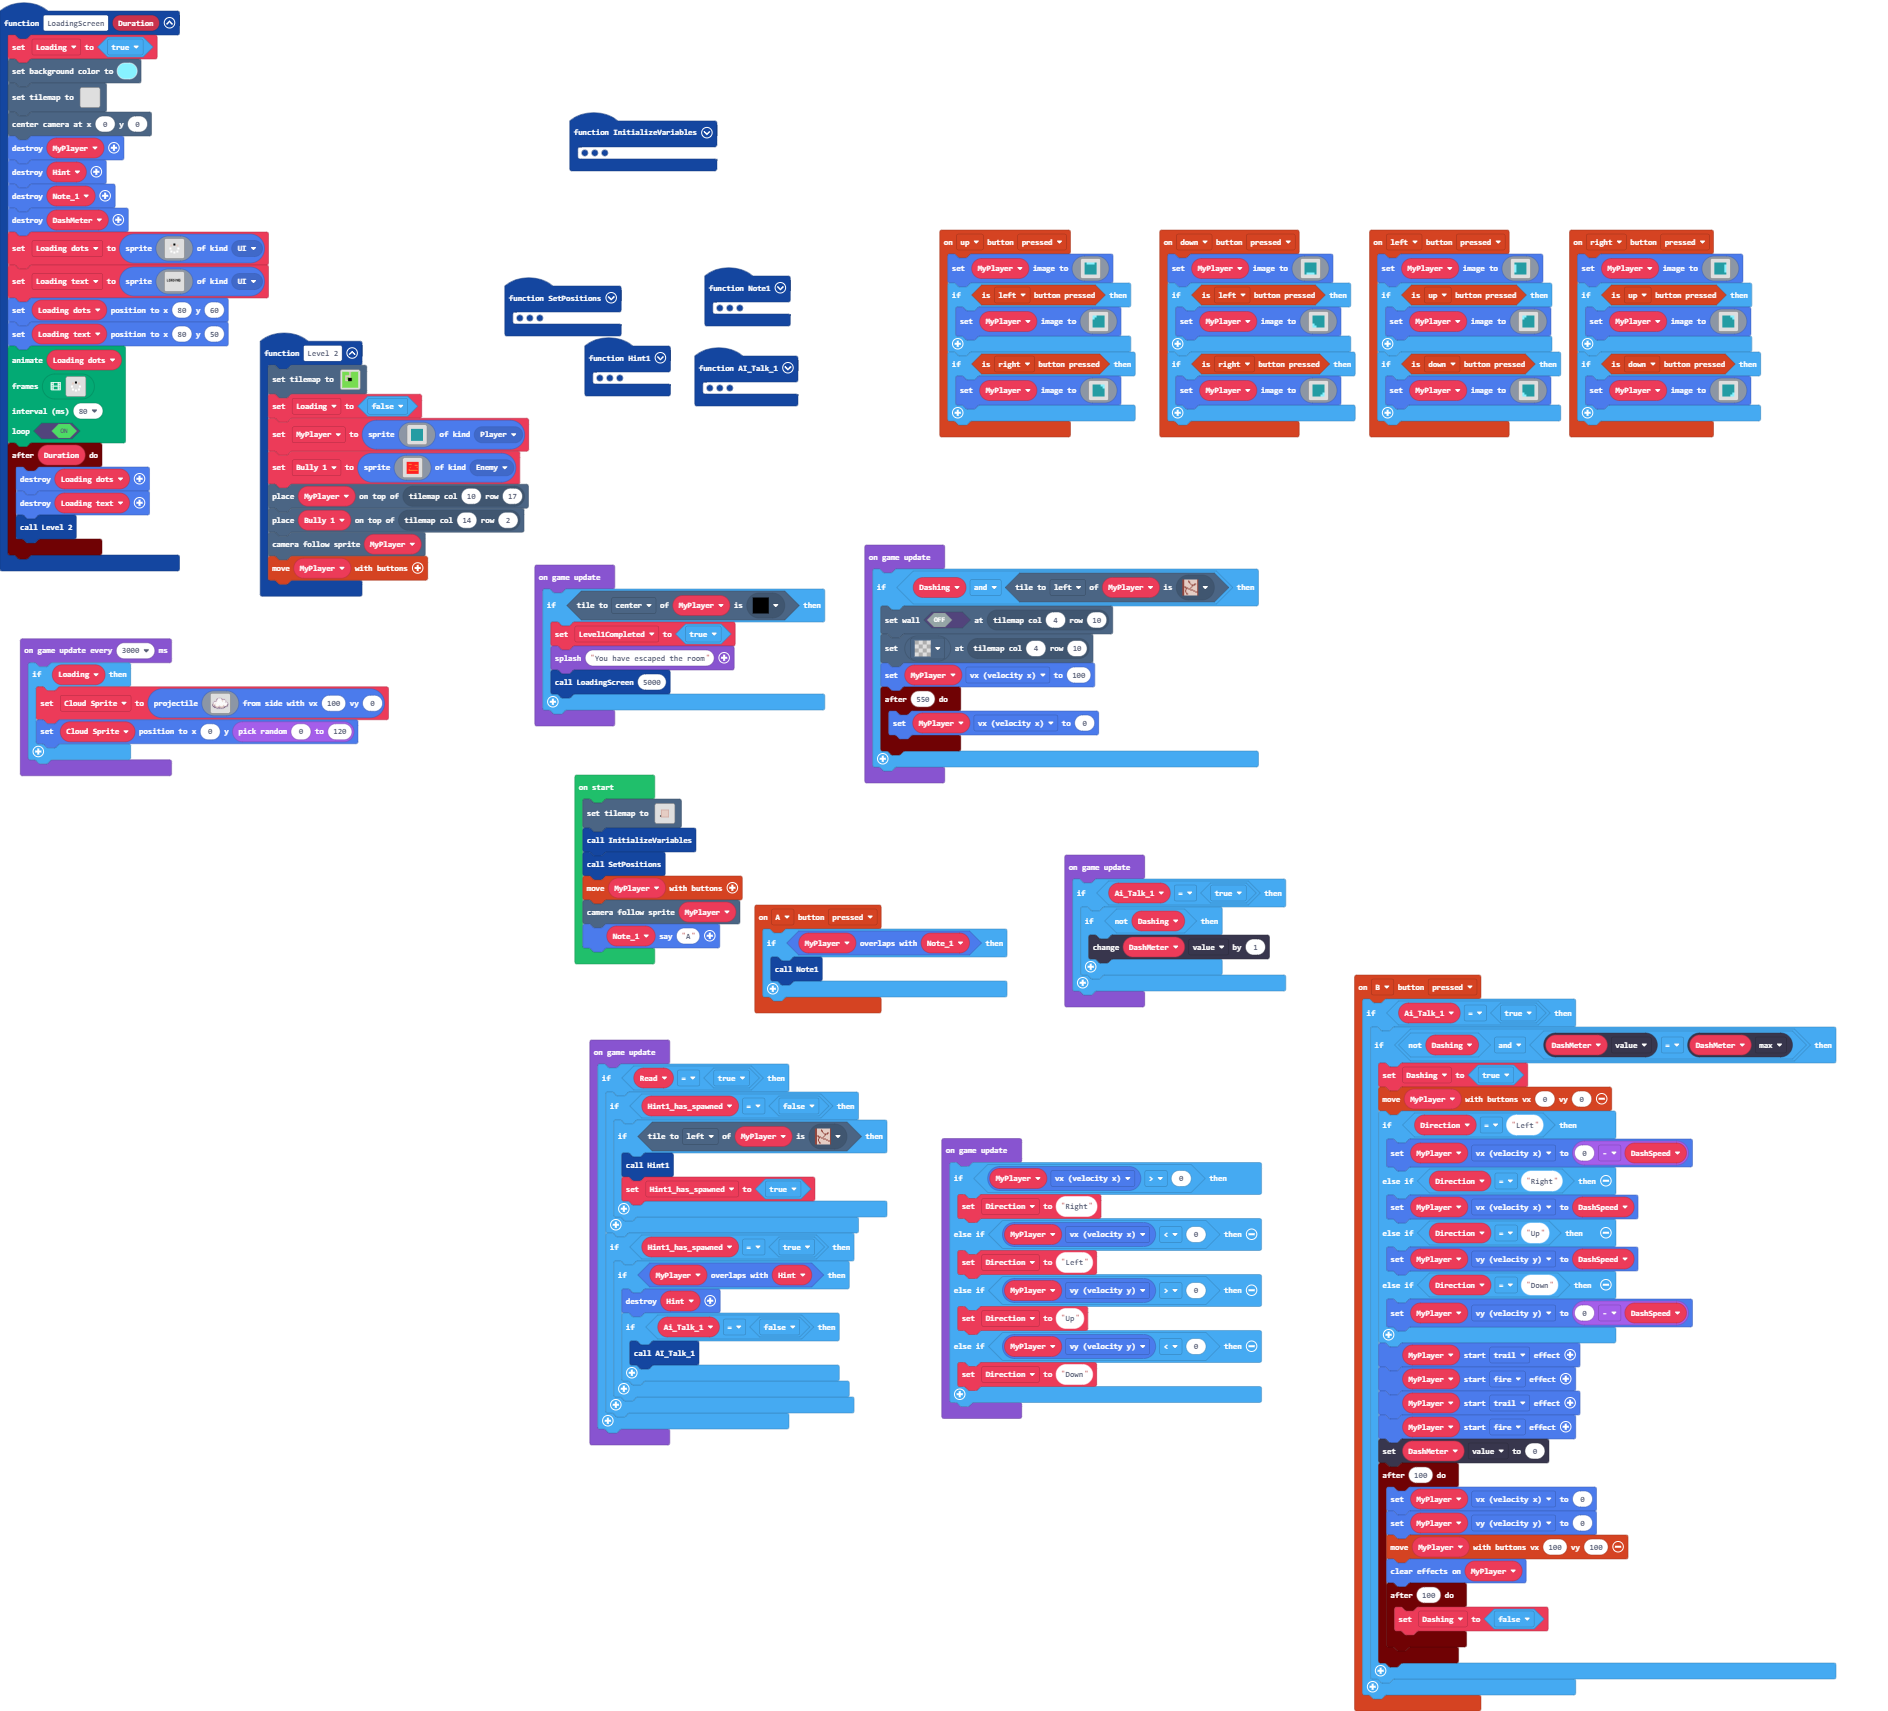
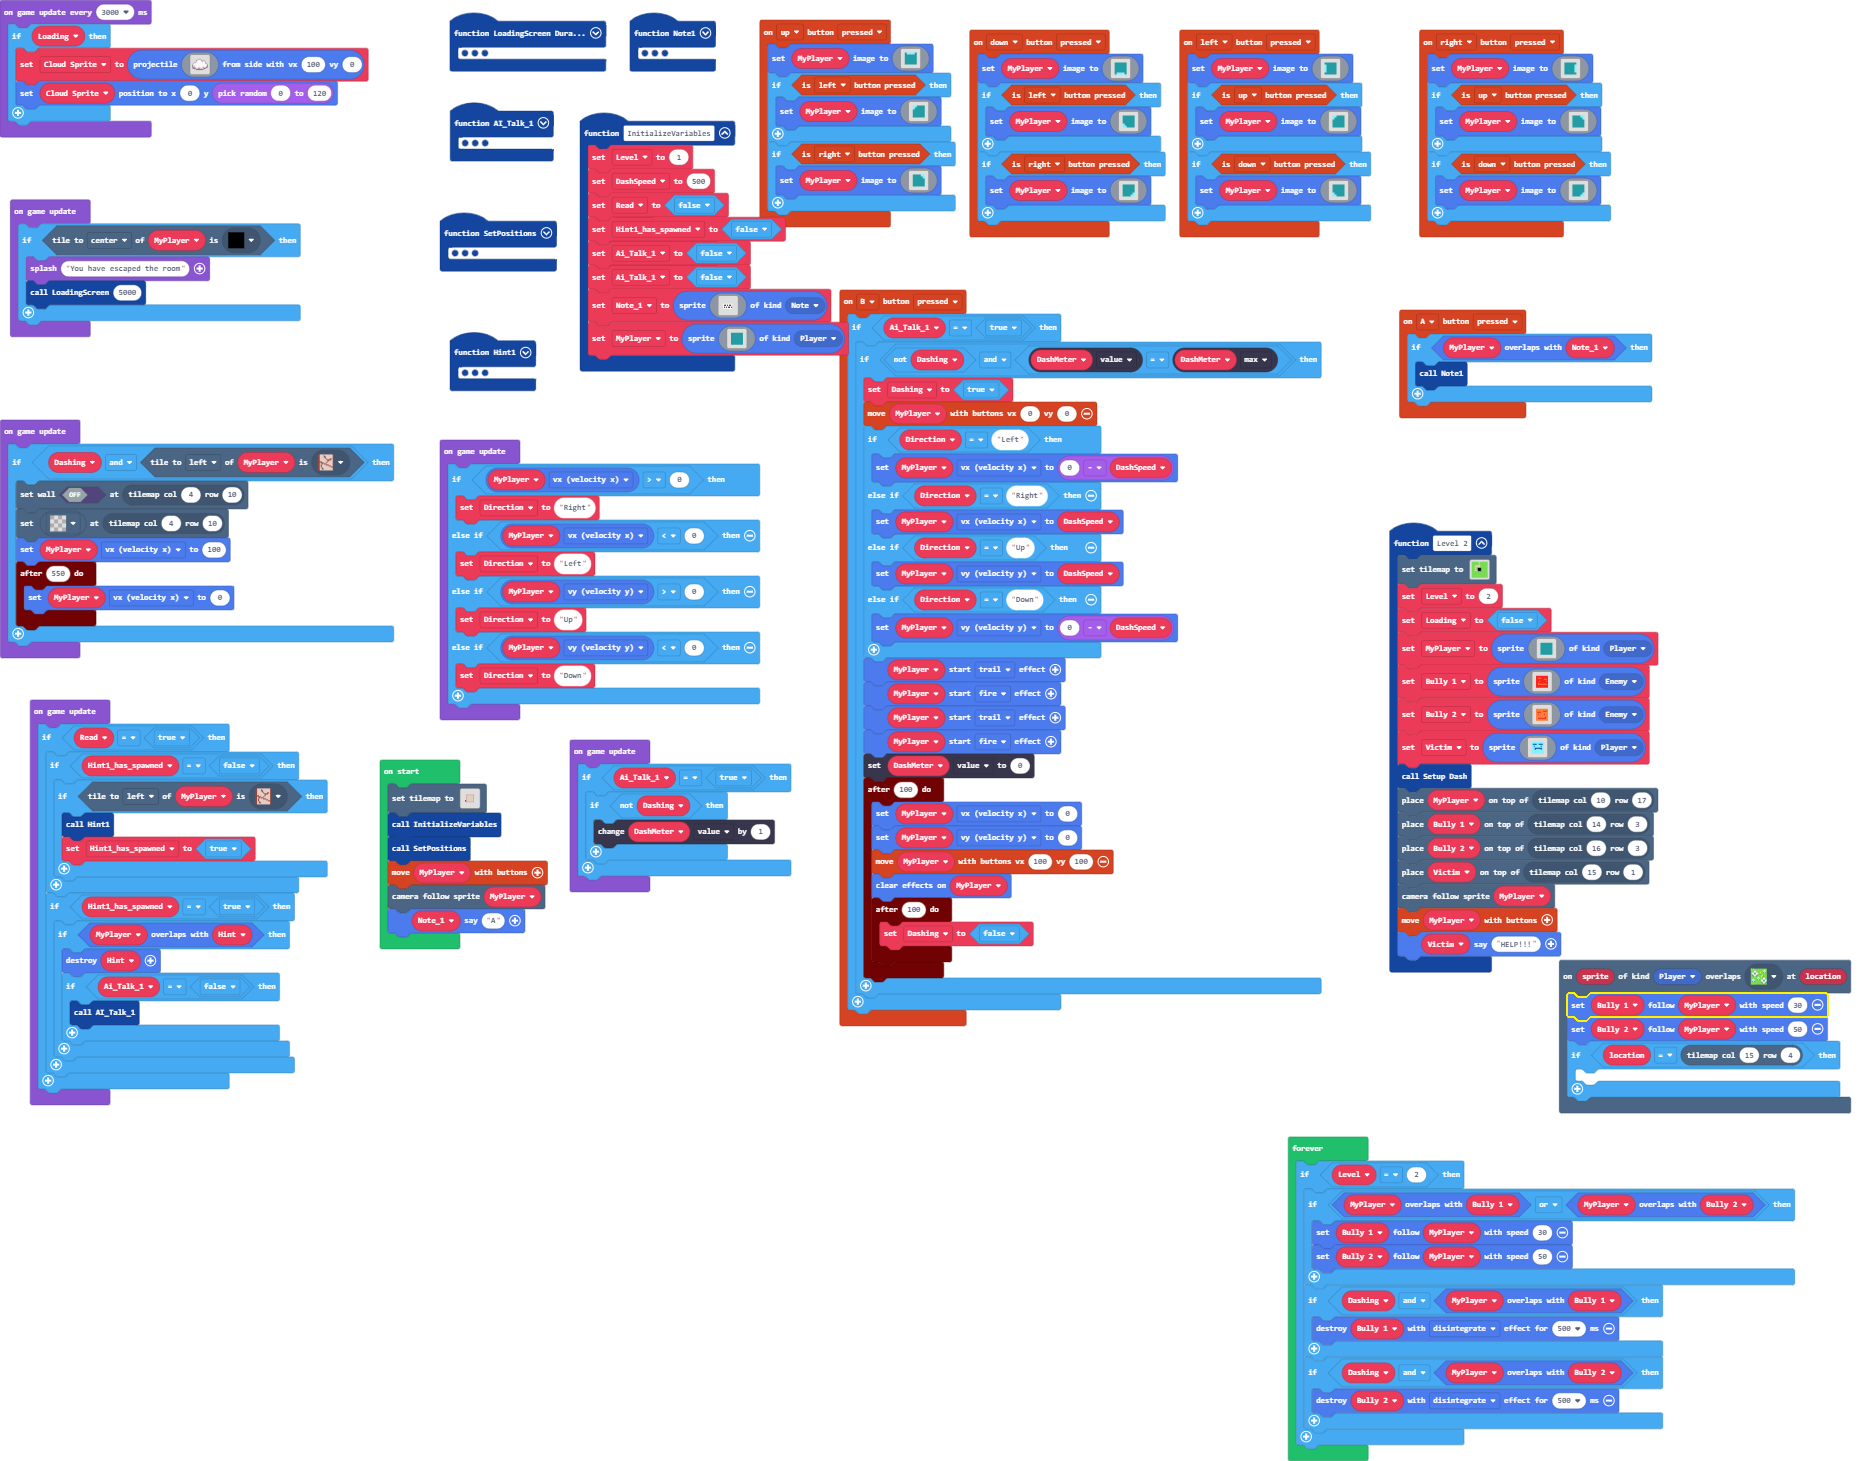
Update main.blocks, main.ts, tilemap.g.jres, tilemap.g.ts

diff --git a/main.ts b/main.ts
@@ -3,6 +3,15 @@ namespace SpriteKind {
     export const Note = SpriteKind.create()
     export const UI = SpriteKind.create()
 }
+function Setup_Dash () {
+    DashMeter = statusbars.create(55, 10, StatusBarKind.Energy)
+    DashMeter.setBarBorder(2, 1)
+    DashMeter.value = 50
+    DashMeter.max = 50
+    DashMeter.setStatusBarFlag(StatusBarFlag.SmoothTransition, true)
+    DashMeter.bottom = 118
+    DashMeter.left = 2
+}
 controller.up.onEvent(ControllerButtonEvent.Pressed, function () {
     MyPlayer.setImage(assets.image`Player_Up`)
     if (controller.left.isPressed()) {
@@ -77,24 +86,59 @@ function AI_Talk_1 () {
     game.showLongText("You will get boosted in the direction you are facing.", DialogLayout.Bottom)
     game.showLongText("But you have to recharge your dash before you can use it again.", DialogLayout.Bottom)
     game.showLongText("Good luck!!!", DialogLayout.Bottom)
-    DashMeter = statusbars.create(55, 10, StatusBarKind.Energy)
-    DashMeter.setBarBorder(2, 1)
-    DashMeter.value = 50
-    DashMeter.max = 50
-    DashMeter.setStatusBarFlag(StatusBarFlag.SmoothTransition, true)
-    DashMeter.bottom = 118
-    DashMeter.left = 2
+    Setup_Dash()
     Ai_Talk_1 = true
 }
 function Level_2 () {
     tiles.setTilemap(tilemap`level 2`)
+    Level = 2
     Loading = false
     MyPlayer = sprites.create(assets.image`Player`, SpriteKind.Player)
     Bully_1 = sprites.create(assets.image`Meanies`, SpriteKind.Enemy)
+    Bully_2 = sprites.create(img`
+        . . . . . . . . . . . . . . . . 
+        . . . . . . . . . . . . . . . . 
+        . . 4 4 4 4 4 4 4 4 4 4 4 4 . . 
+        . . 4 4 4 4 4 4 4 4 4 4 4 4 . . 
+        . . 4 4 4 4 4 4 4 2 2 2 2 4 . . 
+        . . 4 2 2 2 2 4 4 4 4 4 4 4 . . 
+        . . 4 4 4 4 4 4 4 4 4 4 4 4 . . 
+        . . 4 4 2 4 4 4 4 4 2 4 4 4 . . 
+        . . 4 4 4 4 4 4 4 4 4 4 4 4 . . 
+        . . 4 4 4 4 4 4 4 4 4 4 4 4 . . 
+        . . 4 4 4 4 4 4 4 4 4 2 4 4 . . 
+        . . 4 4 2 2 2 2 2 2 2 2 4 4 . . 
+        . . 4 4 4 4 4 4 4 4 4 4 4 4 . . 
+        . . 4 4 4 4 4 4 4 4 4 4 4 4 . . 
+        . . . . . . . . . . . . . . . . 
+        . . . . . . . . . . . . . . . . 
+        `, SpriteKind.Enemy)
+    Victim = sprites.create(img`
+        . . . . . . . . . . . . . . . . 
+        . . . . . . . . . . . . . . . . 
+        . . 9 9 9 9 9 9 9 9 9 9 9 9 . . 
+        . . 9 9 9 9 9 9 9 9 9 9 9 9 . . 
+        . . 9 8 8 8 8 9 9 8 8 8 8 9 . . 
+        . . 9 9 9 9 9 9 9 9 9 9 9 9 . . 
+        . . 9 9 8 9 9 9 9 9 9 8 9 9 . . 
+        . . 9 9 9 9 9 9 9 9 9 9 9 9 . . 
+        . . 9 9 9 8 8 8 8 8 8 8 9 9 . . 
+        . . 9 9 9 8 9 9 9 9 9 8 9 9 . . 
+        . . 9 9 9 9 9 9 9 9 9 9 9 9 . . 
+        . . 9 9 9 9 9 9 9 9 9 9 9 9 . . 
+        . . 9 9 9 9 9 9 9 9 9 9 9 9 . . 
+        . . 9 9 9 9 9 9 9 9 9 9 9 9 . . 
+        . . . . . . . . . . . . . . . . 
+        . . . . . . . . . . . . . . . . 
+        `, SpriteKind.Player)
+    Setup_Dash()
     tiles.placeOnTile(MyPlayer, tiles.getTileLocation(10, 17))
-    tiles.placeOnTile(Bully_1, tiles.getTileLocation(14, 2))
+    tiles.placeOnTile(Bully_1, tiles.getTileLocation(14, 3))
+    tiles.placeOnTile(Bully_2, tiles.getTileLocation(16, 3))
+    tiles.placeOnTile(Victim, tiles.getTileLocation(15, 1))
     scene.cameraFollowSprite(MyPlayer)
     controller.moveSprite(MyPlayer)
+    Victim.say("HELP!!!")
 }
 function SetPositions () {
     tiles.placeOnTile(MyPlayer, tiles.getTileLocation(7, 8))
@@ -118,7 +162,16 @@ controller.down.onEvent(ControllerButtonEvent.Pressed, function () {
         MyPlayer.setImage(assets.image`Player_BottomRight`)
     }
 })
+scene.onOverlapTile(SpriteKind.Player, sprites.castle.tileGrass2, function (sprite, location) {
+    Bully_1.follow(MyPlayer, 30)
+    Bully_2.follow(MyPlayer, 50)
+    if (location == tiles.getTileLocation(15, 4)) {
+    	
+    }
+})
 function LoadingScreen (Duration: number) {
+    Cloud_Sprite = sprites.createProjectileFromSide(assets.image`Cloud`, 100, 0)
+    Cloud_Sprite.setPosition(0, randint(0, 120))
     Loading = true
     scene.setBackgroundColor(9)
     tiles.setTilemap(tilemap`LoadingScreen`)
@@ -144,12 +197,12 @@ function LoadingScreen (Duration: number) {
     })
 }
 function InitializeVariables () {
+    Level = 1
     DashSpeed = 500
     Read = false
     Hint1_has_spawned = false
     Ai_Talk_1 = false
     Ai_Talk_1 = false
-    Level1Completed = false
     Note_1 = sprites.create(assets.image`Note`, SpriteKind.Note)
     MyPlayer = sprites.create(assets.image`Player`, SpriteKind.Player)
 }
@@ -172,20 +225,22 @@ function Note1 () {
         game.showLongText("Mission: Break out of this room", DialogLayout.Top)
     }
 }
-let Cloud_Sprite: Sprite = null
-let Level1Completed = false
 let Hint1_has_spawned = false
 let Read = false
 let Loading_text: Sprite = null
 let Loading_dots: Sprite = null
+let Cloud_Sprite: Sprite = null
+let Victim: Sprite = null
+let Bully_2: Sprite = null
 let Bully_1: Sprite = null
 let Loading = false
+let Level = 0
 let Hint: Sprite = null
 let DashSpeed = 0
 let Direction = ""
-let DashMeter: StatusBarSprite = null
 let Dashing = false
 let Ai_Talk_1 = false
+let DashMeter: StatusBarSprite = null
 let Note_1: Sprite = null
 let MyPlayer: Sprite = null
 tiles.setTilemap(tilemap`level1`)
@@ -194,6 +249,12 @@ SetPositions()
 controller.moveSprite(MyPlayer)
 scene.cameraFollowSprite(MyPlayer)
 Note_1.say("A")
+game.onUpdate(function () {
+    if (MyPlayer.tileKindAt(TileDirection.Center, assets.tile`Check Point`)) {
+        game.splash("You have escaped the room")
+        LoadingScreen(5000)
+    }
+})
 game.onUpdate(function () {
     if (Dashing && MyPlayer.tileKindAt(TileDirection.Left, assets.tile`Wall_1_Right_Cracked`)) {
         tiles.setWallAt(tiles.getTileLocation(4, 10), false)
@@ -205,17 +266,14 @@ game.onUpdate(function () {
     }
 })
 game.onUpdate(function () {
-    if (MyPlayer.tileKindAt(TileDirection.Center, assets.tile`Check Point`)) {
-        Level1Completed = true
-        game.splash("You have escaped the room")
-        LoadingScreen(5000)
-    }
-})
-game.onUpdate(function () {
-    if (Ai_Talk_1 == true) {
-        if (!(Dashing)) {
-            DashMeter.value += 1
-        }
+    if (MyPlayer.vx > 0) {
+        Direction = "Right"
+    } else if (MyPlayer.vx < 0) {
+        Direction = "Left"
+    } else if (MyPlayer.vy > 0) {
+        Direction = "Up"
+    } else if (MyPlayer.vy < 0) {
+        Direction = "Down"
     }
 })
 game.onUpdate(function () {
@@ -237,14 +295,24 @@ game.onUpdate(function () {
     }
 })
 game.onUpdate(function () {
-    if (MyPlayer.vx > 0) {
-        Direction = "Right"
-    } else if (MyPlayer.vx < 0) {
-        Direction = "Left"
-    } else if (MyPlayer.vy > 0) {
-        Direction = "Up"
-    } else if (MyPlayer.vy < 0) {
-        Direction = "Down"
+    if (Ai_Talk_1 == true) {
+        if (!(Dashing)) {
+            DashMeter.value += 1
+        }
+    }
+})
+forever(function () {
+    if (Level == 2) {
+        if (MyPlayer.overlapsWith(Bully_1) || MyPlayer.overlapsWith(Bully_2)) {
+            Bully_1.follow(MyPlayer, 30)
+            Bully_2.follow(MyPlayer, 50)
+        }
+        if (Dashing && MyPlayer.overlapsWith(Bully_1)) {
+            Bully_1.destroy(effects.disintegrate, 500)
+        }
+        if (Dashing && MyPlayer.overlapsWith(Bully_2)) {
+            Bully_2.destroy(effects.disintegrate, 500)
+        }
     }
 })
 game.onUpdateInterval(3000, function () {

diff --git a/tilemap.g.ts b/tilemap.g.ts
@@ -87,7 +87,7 @@ namespace myTiles {
 . . . . . . . . . . . . . . . . 
 `, [myTiles.transparency16], TileScale.Sixteen);
             case "level 2":
[2 lines of base64/hex data omitted]
 ............2222222.............
 ................................
 ................................
@@ -120,7 +120,7 @@ namespace myTiles {
 ................................
 ................................
 ................................
-`, [myTiles.transparency16,myTiles.tile4,myTiles.tile6,myTiles.tile8,myTiles.tile11,myTiles.tile12,sprites.castle.tilePath4,sprites.castle.tilePath5,sprites.castle.tilePath6,sprites.castle.tilePath8,sprites.castle.tilePath7,sprites.castle.tilePath1,sprites.castle.tilePath2], TileScale.Sixteen);
+`, [myTiles.transparency16,myTiles.tile4,myTiles.tile6,myTiles.tile8,myTiles.tile11,myTiles.tile12,sprites.castle.tilePath4,sprites.castle.tilePath5,sprites.castle.tilePath6,sprites.castle.tilePath8,sprites.castle.tilePath7,sprites.castle.tilePath1,sprites.castle.tilePath2,sprites.castle.tileGrass2], TileScale.Sixteen);
         }
         return null;
     })
